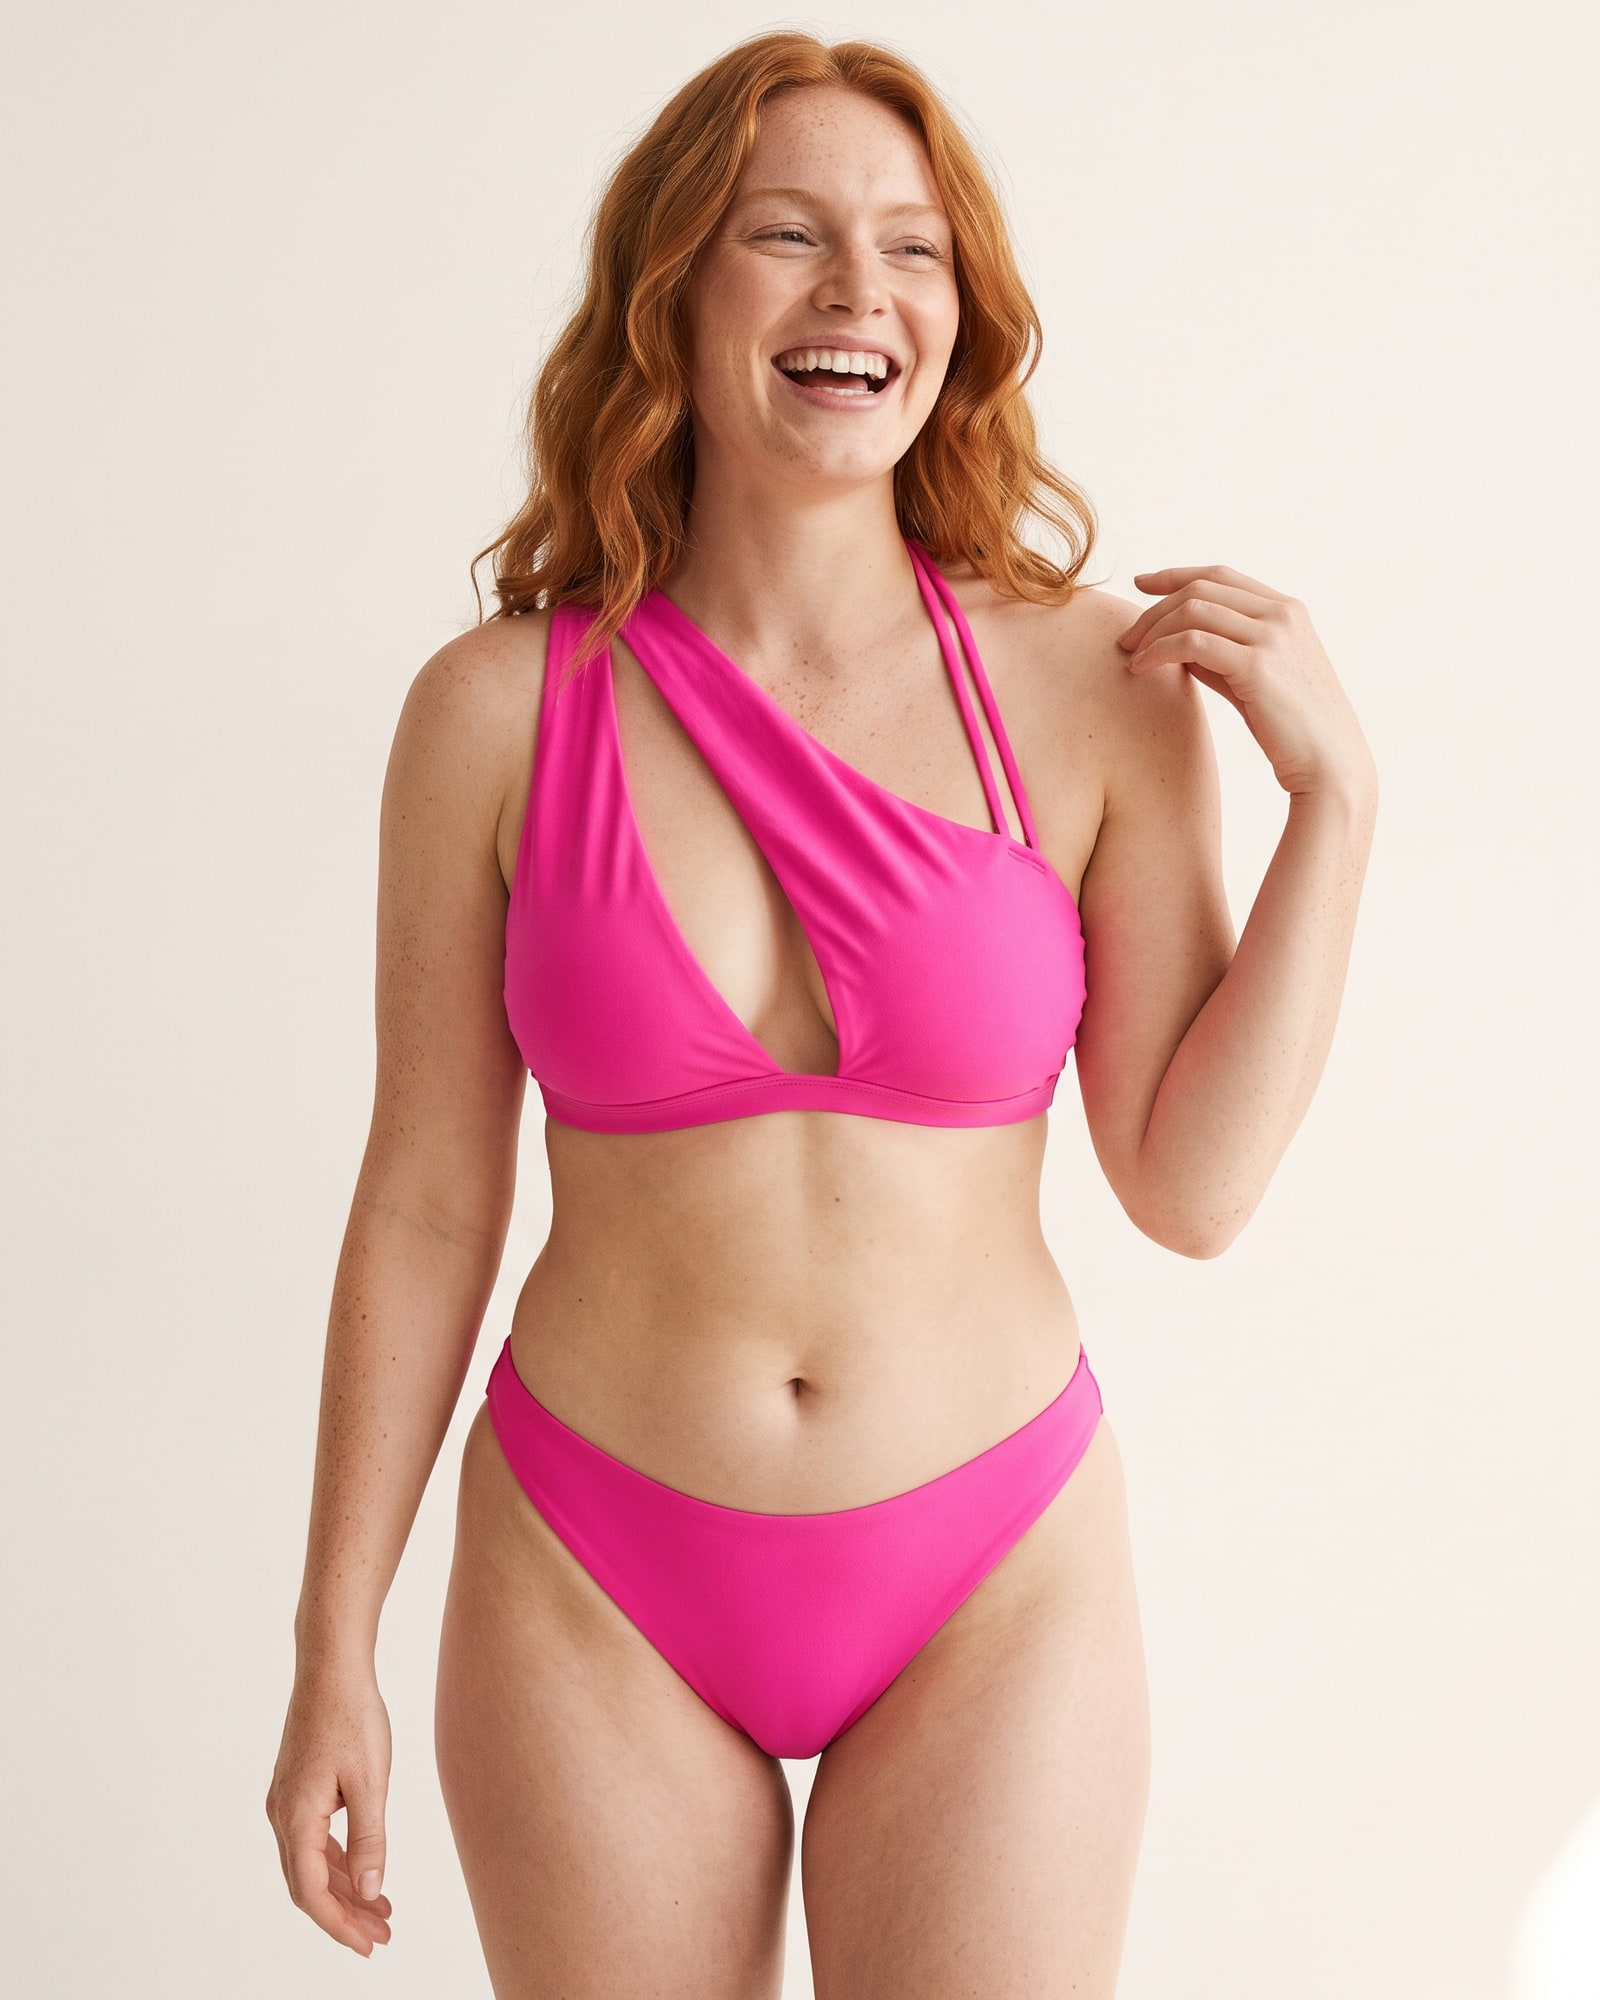
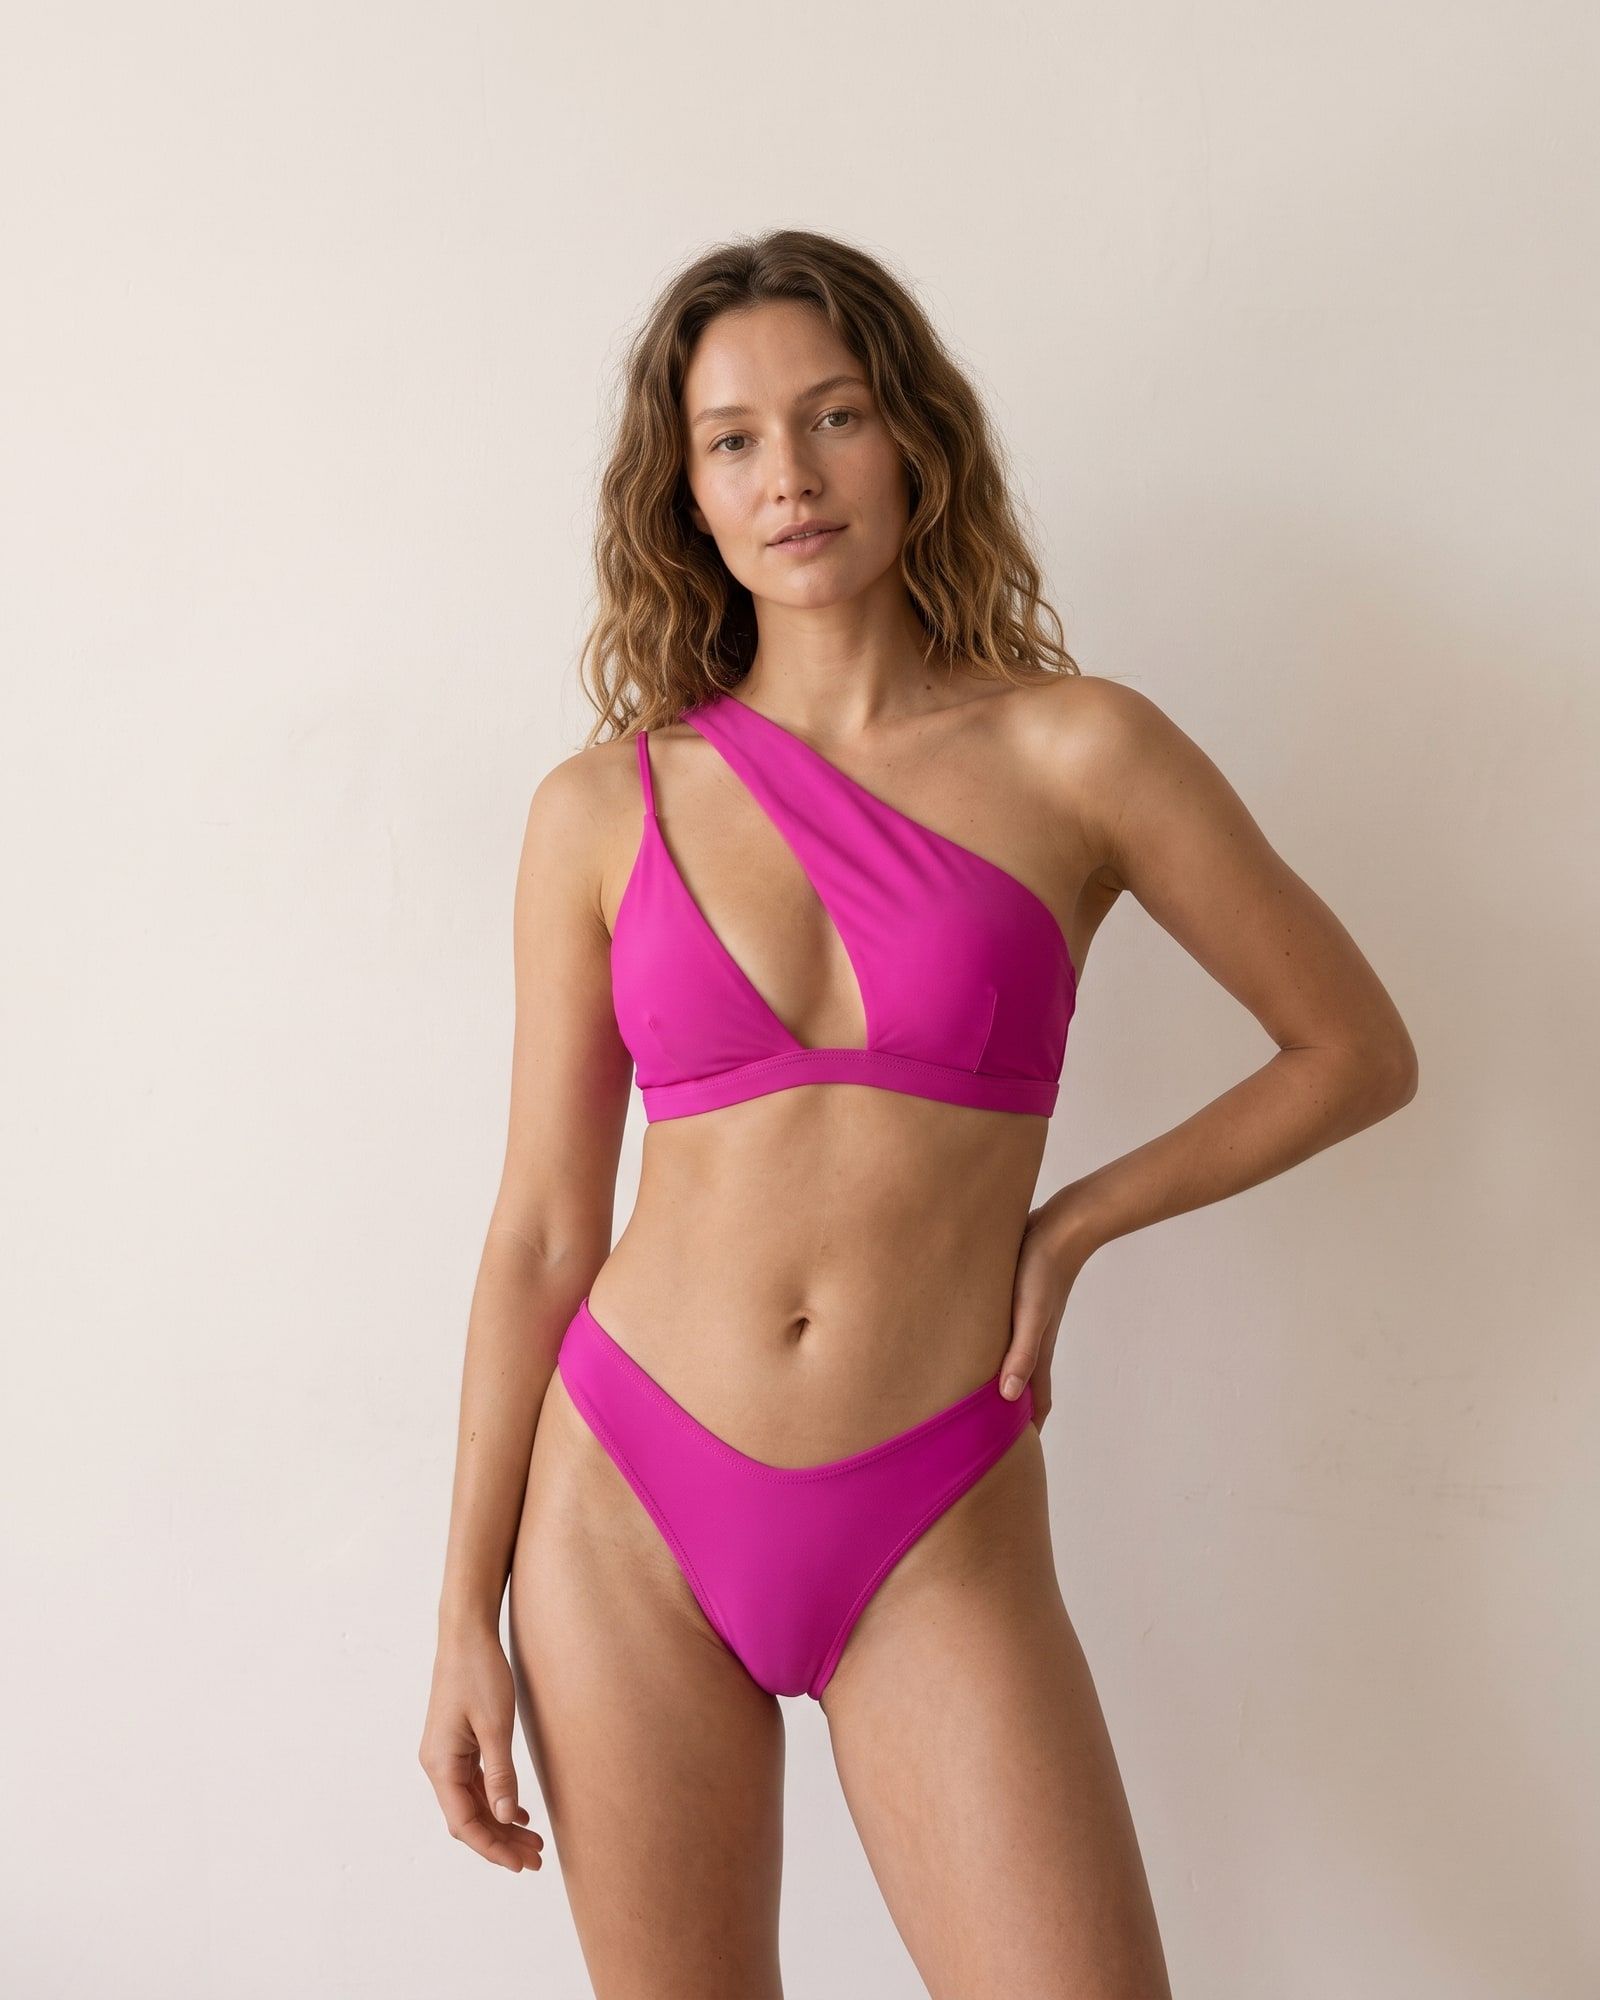
Neue KI-Bilder: One-Shoulder-Bikini (Rosa neu, Weiss, Blau, Schwarz, Rot, Hellblau)

diff --git a/src/app/feed/google.xml/route.ts b/src/app/feed/google.xml/route.ts
@@ -65,7 +65,7 @@ function absolute(path: string): string {
  * austauscht oder bearbeitet, erhöht diesen Wert — dann lädt Google alle
  * Bilder beim nächsten Feed-Abruf frisch.
  */
-const IMAGE_VERSION = "2026-10-24";
+const IMAGE_VERSION = "2026-10-26";
 const imageUrl = (path: string) => `${absolute(path)}?v=${IMAGE_VERSION}`;
 
 const OVERRIDES = imageOverrides as Record<string, Record<string, string>>;
